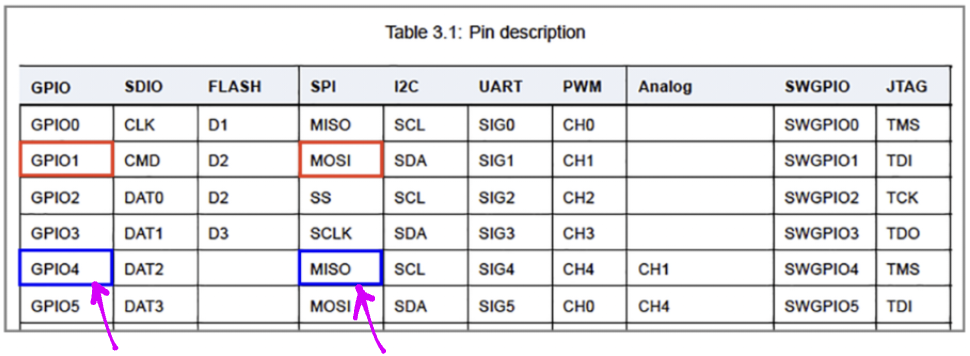
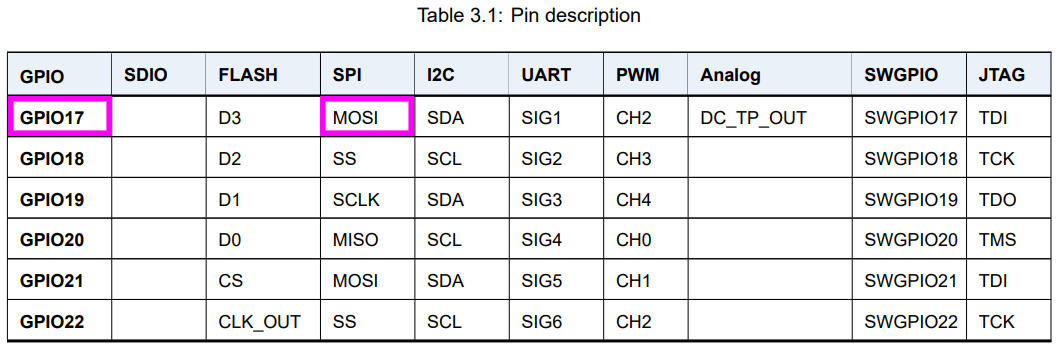
Update article

diff --git a/src/pinedio.md b/src/pinedio.md
@@ -480,6 +480,12 @@ After applying the fix, BL604 swaps the SDO and SDI pins... And __BL604 transmit
 
 ![SDO (MOSI) is OK!](https://lupyuen.github.io/images/pinedio-swap3.png)
 
+_But the [BL604 Reference Manual](https://github.com/bouffalolab/bl_docs/tree/main/BL602_RM/en) says that GPIO 17 is SDO (MOSI)... Not SDI (MISO) right?_
+
+![GPIO 17 is SDO (MOSI)](https://lupyuen.github.io/images/pinedio-swap4.png)
+
+TODO
+
 _This SPI Pin Swap Problem sounds familiar...?_
 
 Yep if you have been following my BL602 Adventures, we've seen this __SPI Pin Swap Problem on BL602__...
